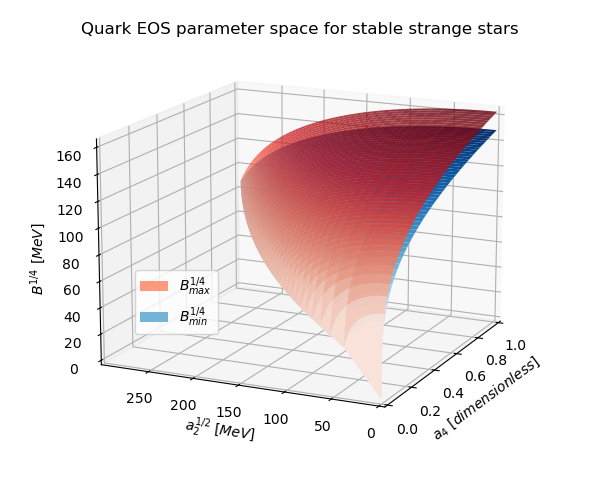
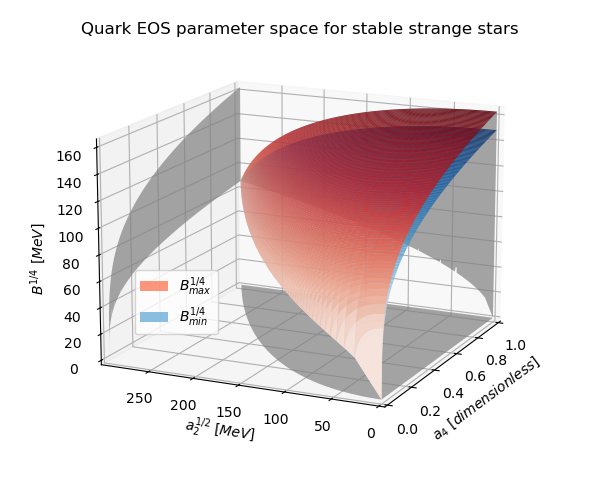
Added the Bmax surface projections in the plot
* app_quark_eos_parameters.py:
- Added the masking to a2 and a4 meshs;
- Added the contour plots of Bmax for each surface, with one level, to represent the projection in each plane;

* figures/app_quark_eos/quark_eos_parameter_space.png: Graph updated.

Changed region(s): [[0.18, 0.1875, 0.84, 0.6562], [0.39, 0.5938, 0.81, 0.8438], [0.45, 0.375, 0.48, 0.4062]]

diff --git a/app_quark_eos_parameters.py b/app_quark_eos_parameters.py
@@ -24,8 +24,11 @@ B_min = (g0**2 / (54 * np.pi**2)) * ((4 * g0**2 * a4) / ((1 + 2**(1 / 3))**3) - 
 
 # Apply the triangular mask to the meshgrid
 mesh_mask = (a2 > a2_max * a4)
+a4_masked = np.ma.masked_where(mesh_mask, a4)
+a2_masked = np.ma.masked_where(mesh_mask, a2)
 B_max_masked = np.ma.masked_where(mesh_mask, B_max)
 B_min_masked = np.ma.masked_where(mesh_mask, B_min)
+B_max_value = np.max(B_max_masked)
 
 # Create figure and change properties
 fig, ax = plt.subplots(subplot_kw={"projection": "3d"}, figsize=(6.0, 4.8), constrained_layout=True)
@@ -33,19 +36,24 @@ ax.set_title("Quark EOS parameter space for stable strange stars", y=1.0)
 ax.view_init(elev=15, azim=-155, roll=0)
 ax.set_xlim3d(0, a4_max)
 ax.set_ylim3d(0, a2_max**(1 / 2))
-ax.set_zlim3d(0, np.max(B_max_masked)**(1 / 4))
+ax.set_zlim3d(0, B_max_value**(1 / 4))
 ax.set_xlabel("$a_4 ~ [dimensionless]$", fontsize=10, rotation=0)
 ax.set_ylabel("$a_2^{1/2} ~ [MeV]$", fontsize=10, rotation=0)
 ax.set_zlabel("$B^{1/4} ~ [MeV]$", fontsize=10, rotation=90)
 ax.zaxis.set_rotate_label(False)
 
 # Add each surface plot
-a2_1_2 = a2**(1 / 2)
+a2_1_2_masked = a2_masked**(1 / 2)
 B_1_4_max_masked = B_max_masked**(1 / 4)
 B_1_4_min_masked = B_min_masked**(1 / 4)
-ax.plot_surface(a4, a2_1_2, B_1_4_max_masked, cmap=cm.Reds, alpha=0.8, label="$B_{max}^{1/4}$")
-ax.plot_surface(a4, a2_1_2, B_1_4_min_masked, cmap=cm.Blues, alpha=1.0, label="$B_{min}^{1/4}$")
+ax.plot_surface(a4_masked, a2_1_2_masked, B_1_4_max_masked, cmap=cm.Reds, rstride=10, cstride=10, alpha=0.8, label="$B_{max}^{1/4}$")
+ax.plot_surface(a4_masked, a2_1_2_masked, B_1_4_min_masked, cmap=cm.Blues, rstride=10, cstride=10, alpha=0.8, label="$B_{min}^{1/4}$")
 ax.legend(loc=(0.15, 0.3))
+
+# Add each contour plot
+ax.contourf(a4_masked, a2_1_2_masked, B_1_4_max_masked, levels=0, zdir='x', offset=a4_max, colors="gray", alpha=0.7, antialiased=True)
+ax.contourf(a4_masked, a2_1_2_masked, B_1_4_max_masked, levels=0, zdir='y', offset=a2_max**(1 / 2), colors="gray", alpha=0.7, antialiased=True)
+ax.contourf(a4_masked, a2_1_2_masked, B_1_4_max_masked, levels=0, zdir='z', offset=0, colors="gray", alpha=0.7, antialiased=True)
 
 # Create the folder if necessary and save the figure
 if not os.path.exists(figure_path):
